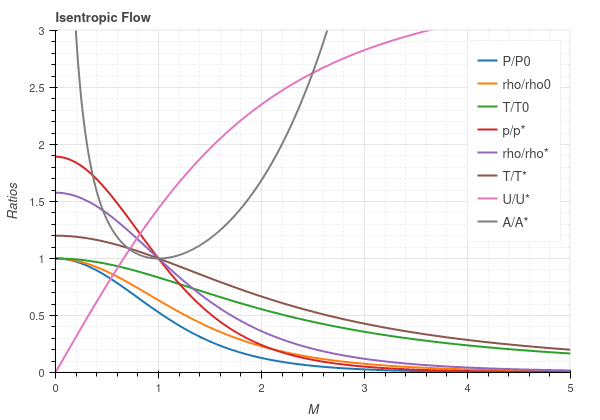
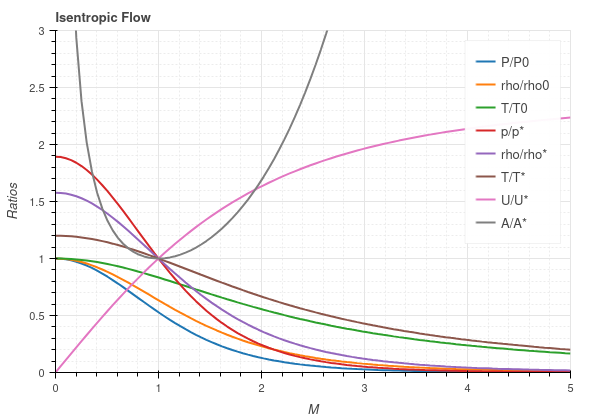
inserted correct numerical values for tests + updated pictures

diff --git a/tests/solvers/test_isentropic.py b/tests/solvers/test_isentropic.py
@@ -31,7 +31,7 @@ def test_input_mach():
         [0.24192491, 0.05153250],   # Critical Pressure Ratio
         [0.36288736, 0.12024251],   # Critical Density Ratio
         [0.66666666, 0.42857142],   # Critical Temperature Ratio
-        [2.35151015, 2.82810385],   # Critical Velocity Ratio
+        [1.63299316, 1.96396101],   # Critical Velocity Ratio
         [1.68749999, 4.23456790],   # Critical Area Ratio
         [29.9999999, 19.4712206],   # Mach Angle
         [26.3797608, 49.7573467],   # Prandtl-Meyer Angle
@@ -73,7 +73,7 @@ def test_input_parameters_supersonic(param_name, value):
         0.05153250, # Critical Pressure Ratio P/P*
         0.12024251, # Critical Density Ratio rho/rho*
         0.42857142, # Critical Temperature Ratio T/T*
-        2.82810385, # Critical Velocity Ratio U/U*
+        1.96396101, # Critical Velocity Ratio U/U*
         4.23456790, # Critical Area Ratio A/A*
         19.4712206, # Mach Angle
         49.7573467, # Prandtl-Meyer Angle
@@ -103,7 +103,7 @@ def test_input_parameters_subsonic(param_name, value):
         1.59577557, # Critical Pressure Ratio P/P*
         1.39630363, # Critical Density Ratio rho/rho*
         1.14285714, # Critical Temperature Ratio T/T*
-        0.76971237, # Critical Velocity Ratio U/U*
+        0.5345224838248488, # Critical Velocity Ratio U/U*
         1.33984375, # Critical Area Ratio A/A*
         np.nan, # Mach Angle
         np.nan, # Prandtl-Meyer Angle

diff --git a/tests/test_isentropic.py b/tests/test_isentropic.py
@@ -3,8 +3,10 @@ from pygasflow.isentropic import (
     sonic_density_ratio,
     sonic_pressure_ratio,
     sonic_temperature_ratio,
-    sonic_sound_speed_ratio
+    sonic_sound_speed_ratio,
+    critical_velocity_ratio,
 )
+import pytest
 
 
 def test_sonic_conditions():
@@ -19,3 +21,20 @@ def test_sonic_conditions():
     assert np.allclose(sonic_pressure_ratio(gammas), [1.89292916, 1.953125])
     assert np.allclose(sonic_temperature_ratio(gammas), [1.2, 1.25])
     assert np.allclose(sonic_sound_speed_ratio(gammas), [1.09544512, 1.11803399])
+
+
+@pytest.mark.parametrize("m, gamma, expected_vel_ratio", [
+    (2, 1.4, 1.63299316),
+    ([2, 3], 1.4, [1.63299316, 1.96396101]),
+    (0.5, 1.4, 0.5345224838248488),
+    (1, 1.4, 1),
+    (0, 1.4, 0),
+    (2, 1.2, 1.77281052),
+    ([2, 3], 1.2, [1.77281052, 2.28265773]),
+    (0.5, 1.2, 0.5179697702828123),
+    (1, 1.2, 1),
+    (0, 1.2, 0),
+])
+def test_critical_velocity_ratio(m, gamma, expected_vel_ratio):
+    vr = critical_velocity_ratio(m, gamma)
+    assert np.allclose(vr, expected_vel_ratio)

diff --git a/tests/test_decorators.py b/tests/test_decorators.py
@@ -108,7 +108,7 @@ def test_raise_error_isentropic():
     # the function and either produce errors or produce random junk results
     func(TypeError, ise.critical_velocity_ratio, -1, nocheck=True)  # int is not subscriptable
     func(TypeError, ise.critical_velocity_ratio, 2, gamma=0.9, nocheck=True)  # int is not subscriptable
-    assert np.all(ise.critical_velocity_ratio.__no_check__([2, 3, -1]) - np.asarray([2, 2, 2]) == 0)
+    assert np.all(ise.critical_velocity_ratio.__no_check__([2, 3, -1]) - np.asarray([1, 1, 1]) == 0)
 
 
 def test_raise_error_fanno():

diff --git a/pygasflow/isentropic.py b/pygasflow/isentropic.py
@@ -34,7 +34,11 @@ def critical_velocity_ratio(M, gamma=1.4):
     out : ndarray
         Critical velocity ratio U/U*.
     """
-    return M * ((gamma + 1) / (2 + (gamma - 1) * M**2)) ** 0.5
+    # need to deal with division by 0
+    ratio = np.zeros_like(M)
+    idx = M != 0
+    ratio[idx] = M[idx] * ((gamma + 1) / (2 + (gamma - 1) * M[idx]**2)) ** 0.5
+    return ratio
 
 
 @check
